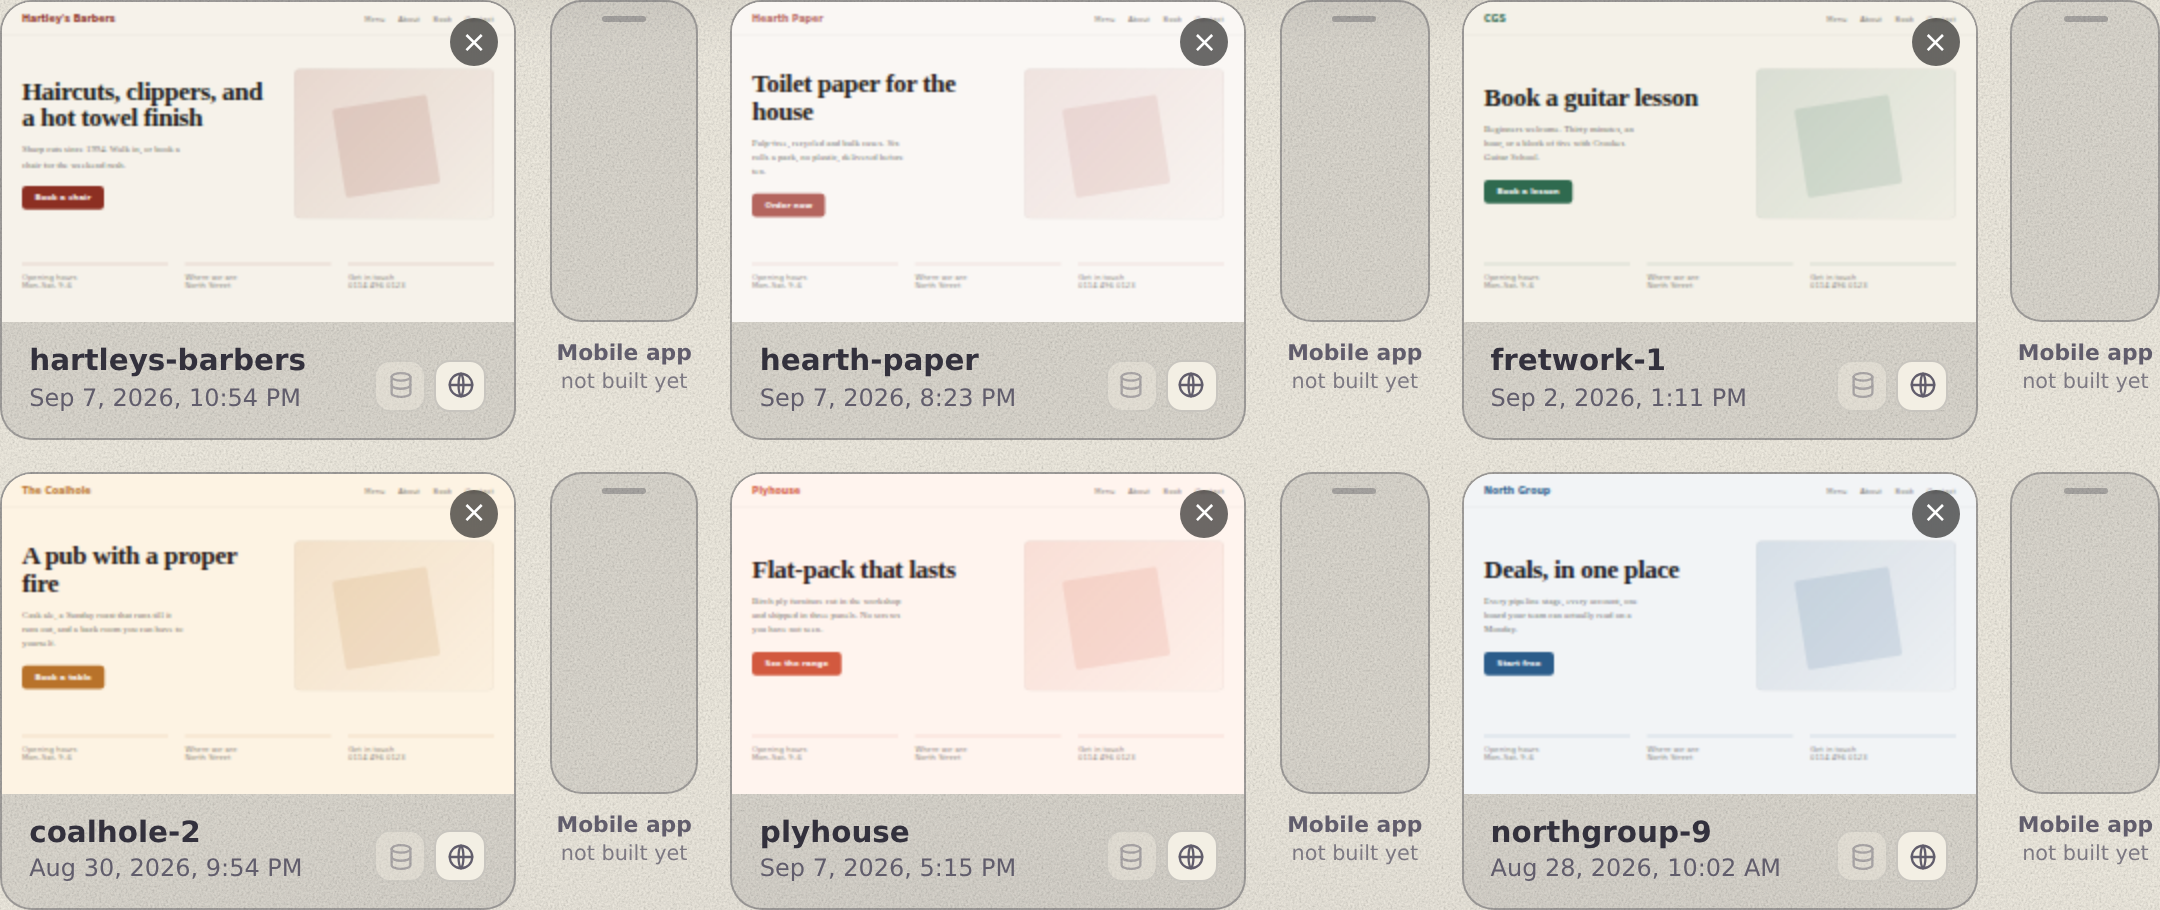
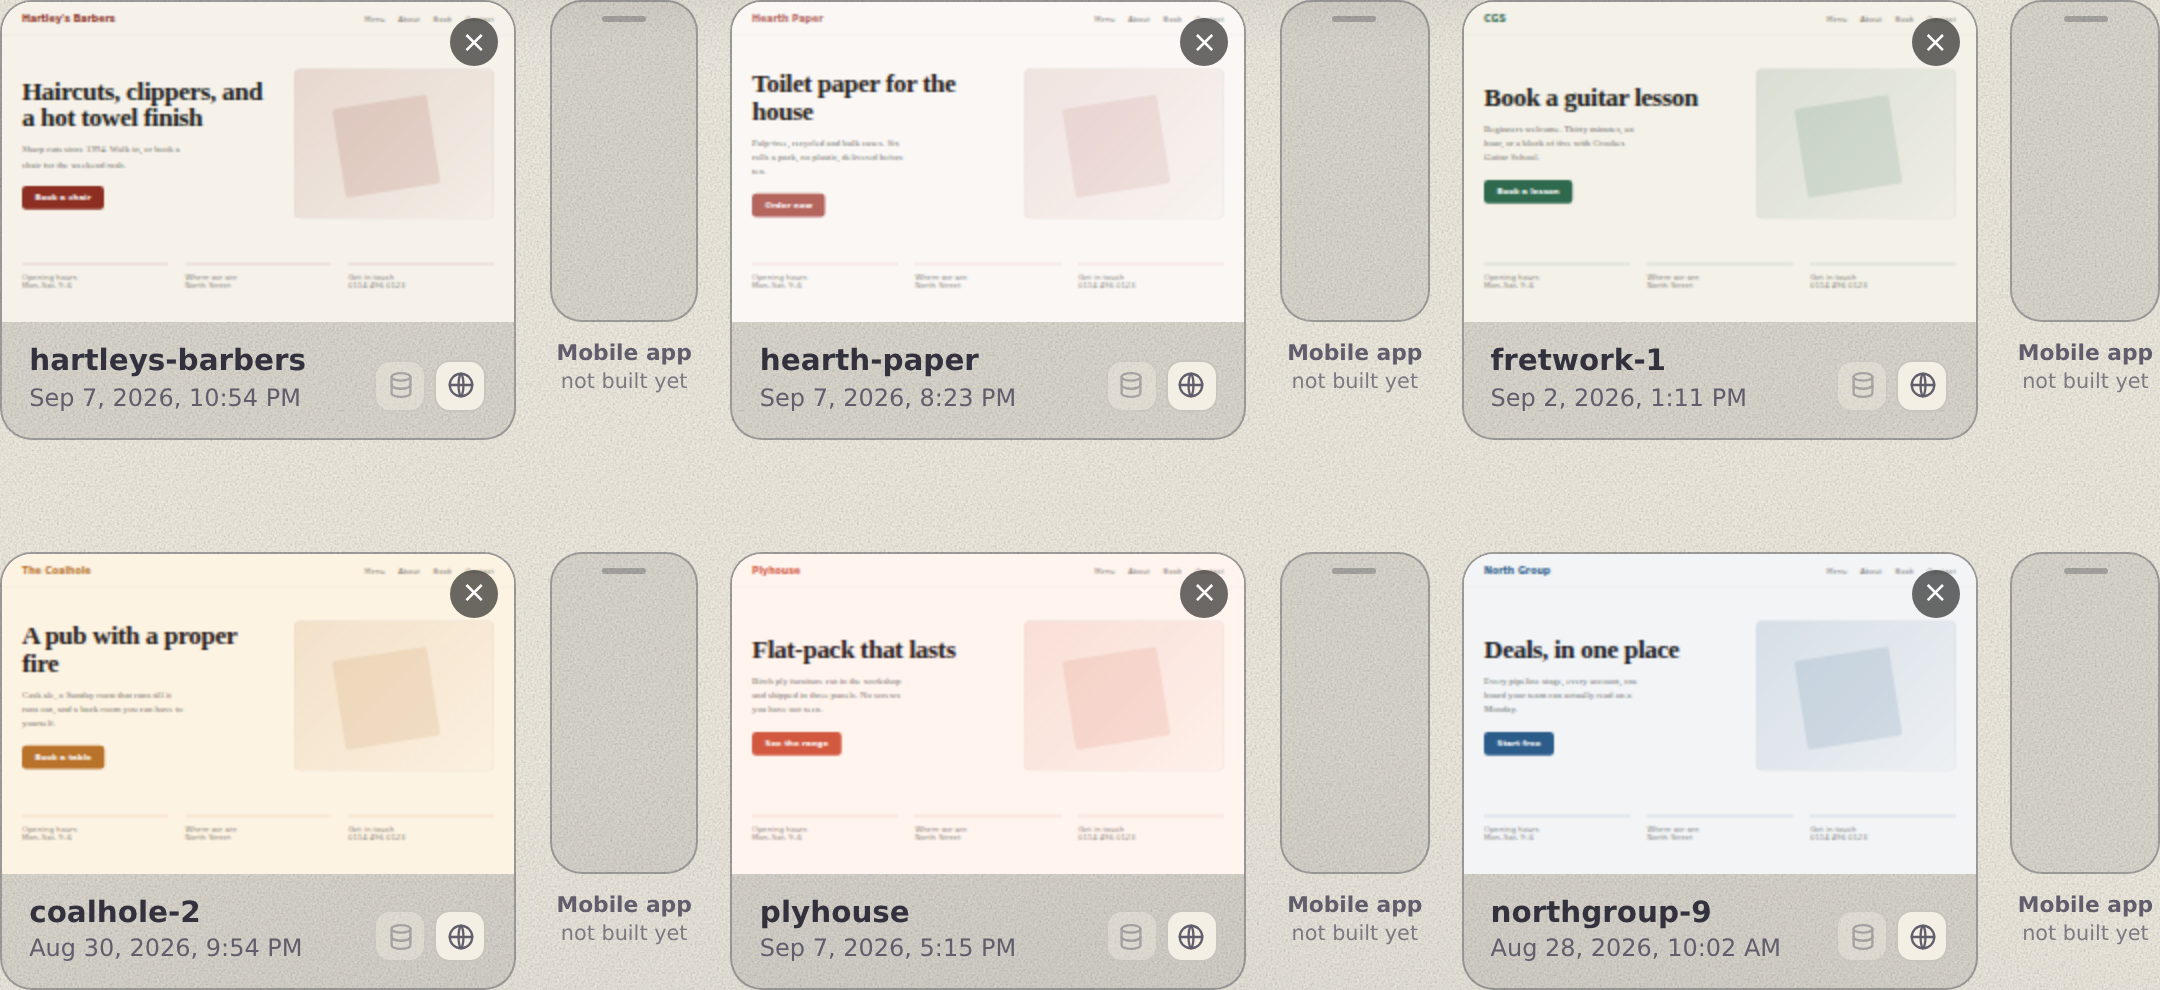
The rows on the start screen are set apart from each other
Owner: "leave more space between every3" -> "i mean like floor one to floor 2".

At one `gap` for both axes the space between a phone and the next site was 16px
and the space INSIDE a pair was 16.8, so six columns read as six columns and a
row ran straight into the one under it. `column-gap: 1rem; row-gap: 3.5rem` now:
56px between floors, measured.

I read the ask as the horizontal axis first and started there. Worth recording
why that one is not free: the page is capped at 1080, so a wider gap BETWEEN
pairs takes width off each pair and shrinks the card from 258 to about 246,
which fights "leave the square the size it is currently". The row gap changes no
width at all - card 258 at every setting, measured at four window widths.

THE SHORTHAND IS FORBIDDEN, and that is a guard rather than a style rule.
`row-gap:` contains `gap:`, so the card-width check's /gap:\s*([\d.]+)rem/ would
match a `gap: <row> <column>` and take the ROW's number as the column gap -
computing the card wrong with nothing failing. Both axes are named declarations,
the check reads `column-gap` by name, and a mutant that restores the shorthand
is killed.

Guards: test/site-card-phone.test.mjs 14 -> 15. The row gap is required to
EXCEED the column gap - derived, never a number, because the property is the
separation and not the millimetre - with the shorthand forbidden beside it. The
card-width case now reads `column-gap` by name rather than the first thing
matching `gap:`.
[…]

diff --git a/public/styles.css b/public/styles.css
@@ -1486,7 +1486,17 @@ body.in-sites .top-tab, body.in-sites .top-back { display: none !important; }
    now holds a site and the mobile app beside it, so the count is stated rather
    than derived from a minimum width. The two breakpoints are what stop three
    pairs from putting a card under 200px on a laptop. */
-.st-grid { display: grid; grid-template-columns: repeat(3, 1fr); gap: 1rem; }
+/* THE TWO AXES ARE SET APART, and that is the point rather than a tidy-up
+   (owner, 2026-09-09: "leave more space between every3" -> "i mean like floor
+   one to floor 2"). At one `gap` for both, the space between a phone and the
+   next site was 16px and the space INSIDE a pair was 16.8 — so six columns read
+   as six columns, and a row ran straight into the one under it. The row gap is
+   what says "that was a floor, this is the next one".
+   WRITTEN AS TWO NAMED DECLARATIONS, never the `gap: <row> <column>` shorthand:
+   `row-gap:` CONTAINS `gap:`, so a guard reading the column gap out of this rule
+   would match whichever came first and silently take the wrong number into the
+   card-width arithmetic below. Naming both removes the question. */
+.st-grid { display: grid; grid-template-columns: repeat(3, 1fr); column-gap: 1rem; row-gap: 3.5rem; }
 @media (max-width: 1180px) { .st-grid { grid-template-columns: repeat(2, 1fr); } }
 @media (max-width: 760px) { .st-grid { grid-template-columns: 1fr; } }
 /* THE PHONE IS THE SITE SQUARE'S HEIGHT BY ARITHMETIC, NOT BY A NUMBER TYPED IN

diff --git a/CLAUDE.md b/CLAUDE.md
@@ -1466,6 +1466,22 @@ correction is a property a guard now holds.
   card changes size. The guard derives the card's width from the page's cap, the
   grid's gap, the pair's gap and the column ratio and requires 258, which is
   what a card measured at four across before this.
+- **AND THE TWO AXES ARE SET APART (owner, the same day: *"leave more space
+  between every3"* → *"i mean like floor one to floor 2"*).** At one `gap` for
+  both, the space between a phone and the next site was **16px** and the space
+  INSIDE a pair was **16.8** — so six columns read as six columns, and a row ran
+  straight into the one under it. `column-gap: 1rem; row-gap: 3.5rem` now: 56px
+  between floors, measured. **The first reading of that ask was the wrong axis**
+  — I built the horizontal case, found it fights *"leave the square the size it
+  is"* (the page is capped at 1080, so wider gaps between pairs shrink the card
+  to ~246) and was about to render the tradeoff when the owner said which axis.
+  **The row gap changes no width at all**: card 258 at every option, measured.
+- **THE SHORTHAND IS FORBIDDEN, AND THAT IS A GUARD RATHER THAN A STYLE RULE.**
+  `row-gap:` CONTAINS `gap:`, so the card-width check's `/gap:\s*([\d.]+)rem/`
+  would match `gap: <row> <column>` and take the ROW's number as the column gap —
+  computing the card wrong with nothing failing. Both axes are named
+  declarations, the check reads `column-gap` by name, and a mutant that restores
+  the shorthand is killed.
 - **THE PHONE IS BESIDE THE CARD, NOT INSIDE IT** — two corrections were spent
   on that, so the sibling relationship is COUNTED rather than inferred: the
   guard counts `<div` against `</div>` between the card's opening literal and
@@ -1509,14 +1525,16 @@ correction is a property a guard now holds.
   clip its own overflow. Kept, said out loud in the stylesheet, and NOT claimed
   to be covered — the sweep's mutant for it was RE-AIMED at the pair's gap
   rather than shipped against an inert wall.
-- **Guards**: `test/site-card-phone.test.mjs` (14) — the tile EVALUATED out of
+- **Guards**: `test/site-card-phone.test.mjs` (15) — the tile EVALUATED out of
   chat.js and driven for its two sentences, its inertness and its indifference
   to the site; the one call site COUNTED; the sibling relationship counted; the
   class names DERIVED from the markup and checked at the stylesheet and back;
   the `st-mob` collision; the column recomputed from both ratios; the two
   phones' ratios compared by identity; the phone's ground read off the card's
   own token; `align-content: start`; the card's width derived; the grid and both
-  breakpoints with their ORDER asserted; and the icon's absence beside the two
+  breakpoints with their ORDER asserted; the row gap required to EXCEED the
+  column gap (derived, never a number — the property is the separation, not the
+  millimetre) with the shorthand forbidden; and the icon's absence beside the two
   acts that stay.
   **Four older cases in `test/site-list.test.mjs` were re-anchored, not
   appeased**, and the split between them is the finding. Three went honestly red
@@ -1530,7 +1548,7 @@ correction is a property a guard now holds.
   **INVERTED rather than deleted** — it used to require the button and now
   forbids it, and it still requires the sentence, with a tripwire that the
   feature did not simply go.
-- **Sweep: 26 mutants, 26 killed, none survived, none unapplied, two
+- **Sweep: 30 mutants, 30 killed, none survived, none unapplied, two
   comment-only controls survived — TWO survived the first pass**: the nested
   tile (a real guard gap, above) and `min-width: 0` (inert, above). The killed
   ones: the tile never drawn (the wiring trap, the defect itself), drawn inside
@@ -1541,8 +1559,10 @@ correction is a property a guard now holds.
   gone or inverted; the column a round number, a fixed width, or sized from a
   height; either ratio drifting; the phone centred instead of top-aligned;
   painting its own grey; the stylesheet keying on a class nothing writes; the
-  pair's gap rounded and the page's cap moved, each of which resizes the card.
-  Full suite **5,702**.
+  pair's gap rounded and the page's cap moved, each of which resizes the card;
+  the rows back to the columns' spacing, the row gap shrunk to it, the two axes
+  swapped, and the shorthand restored so the card's width reads the wrong number.
+  Full suite **5,703**.
 - **AND MY OWN GUARD HELPER HIT THE AMBIGUOUS-LANDMARK TRAP.** `rule(css, sel)`
   used a bare `indexOf(sel + " {")` and matched `.st-mob-one .st-mob-device {`
   — a DESCENDANT rule eighteen lines above the real one — because the selector
@@ -7796,9 +7816,9 @@ builds are the founder case — `exempt=true` on the owner-build log's step 5.
   no `-parts` route, and the `hydrate-diff` page — builds, the browser
   reports the mismatch as a throw on `/`, the finding names both texts, as
   a hydration mismatch by name; 326 on 2026-09-03 after the QR list's two-code
-  build and the pre-list payload added sixteen); the unit suite is 5,702
+  build and the pre-list payload added sixteen); the unit suite is 5,703
   (2026-09-09, after the mobile app moved beside the site card on the start
-  screen — fourteen in `test/site-card-phone.test.mjs`: the tile EVALUATED out
+  screen — fifteen in `test/site-card-phone.test.mjs`: the tile EVALUATED out
   of chat.js and driven for its two sentences, its inertness and its
   indifference to the site it is never handed; its one call site COUNTED,
   because this same screen shipped `cardActs` uncalled once already; the sibling
@@ -7809,8 +7829,11 @@ builds are the founder case — `exempt=true` on the owner-build log's step 5.
   alive; the phone column RECOMPUTED from the thumbnail's ratio and the
   handset's rather than pinned; the two phones' ratios compared by identity; the
   card's own width derived from the page cap, both gaps and the column, so the
-  owner's "leave the square the size it is" is arithmetic; and the icon's
-  absence asserted beside the two acts that stay. Four older cases in
+  owner's "leave the square the size it is" is arithmetic; the row gap required
+  to EXCEED the column gap, derived rather than pinned, with the `gap: <row>
+  <column>` shorthand forbidden because `row-gap:` contains `gap:` and the
+  card-width check would silently read the wrong number out of it; and the
+  icon's absence asserted beside the two acts that stay. Four older cases in
   `test/site-list.test.mjs` re-anchored — three honestly red, and one that had
   gone GREEN VACUOUSLY on a window running to `-1`;
   before it 5,688, after the mobile app column became an overlay over the preview —

diff --git a/docs/owner-notes.md b/docs/owner-notes.md
@@ -207,10 +207,23 @@ from gofarther.dev and they match the tree exactly: three across, the phone
 column, the phone's shape, and **zero** occurrences of the old phone icon.
 Nothing paid ran.
 
-**You still need a hard refresh** to see it, because `chat.js` is about 932 KB
-and your browser caches it. Then: three pairs across, a phone beside each site
-standing exactly as tall as its picture, and no little phone icon in the row
-with the name. Picture: `docs/edits/site-cards-phone.png`.
+**Then you asked for more space between the rows** — "floor one to floor 2".
+Done: **56 pixels** between one row and the next, where before it was 16, the
+same as the gap between columns, which is why a row ran straight into the one
+below it.
+
+I read that wrong the first time and started on the horizontal gap. Worth
+knowing why that one is not free: the page is capped at 1080 pixels wide, so
+more space *between* pairs takes width *off* each pair and shrinks your card
+from 258 to about 246 — which fights what you told me earlier about leaving the
+square alone. The row gap costs nothing: **the card is still 258** at every
+setting, measured.
+
+**You still need a hard refresh** to see any of it, because `chat.js` is about
+932 KB and your browser caches it. Then: three pairs across with clear space
+between the rows, a phone beside each site standing exactly as tall as its
+picture, and no little phone icon in the row with the name. Picture:
+`docs/edits/site-cards-phone.png`.
 
 ---
 
